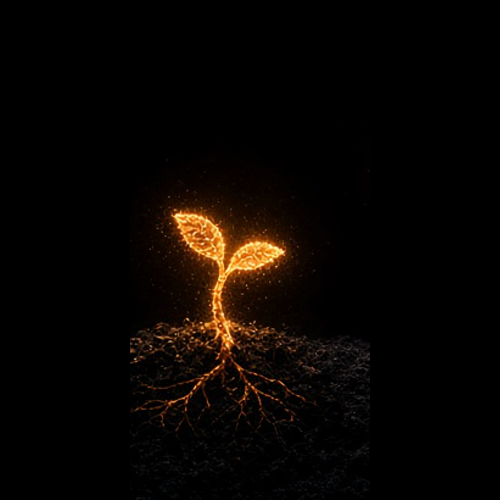
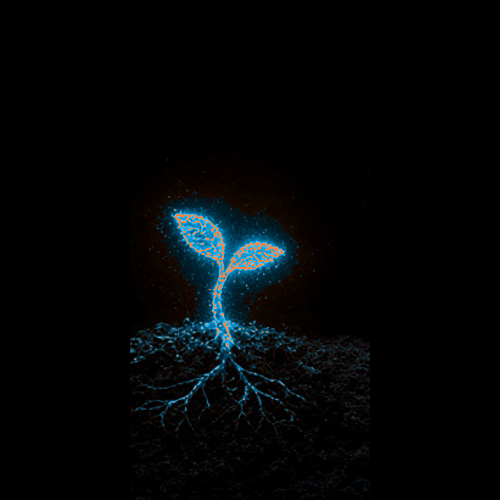
Ch6 pathways color fidelity vs Jose refs
Restore Jose true cyan-blue + orange palette on Ch6 #pathways stages 1/2/4. Kill pink colorize. Crash budget held.

Changed region(s): [[0.24, 0.39, 0.63, 0.84], [0.6, 0.69, 0.69, 0.75], [0.72, 0.69, 0.75, 0.72]]

diff --git a/src/style.css b/src/style.css
@@ -3952,6 +3952,9 @@ a.subject-chip {
   height: 100%;
   object-fit: contain;
   object-position: center bottom;
+  /* Jose PNGs render true — no hue-rotate / tint / blend recolor. */
+  filter: none;
+  mix-blend-mode: normal;
 }
 
 .plant-stage-slot {
@@ -4054,8 +4057,8 @@ a.subject-chip {
 
 .plant-viz--2 .plant-stem { height: 42px; }
 .plant-viz--2 .plant-leaf--l,
-.plant-viz--2 .plant-leaf--r { opacity: 0.9; bottom: 18px; background: #ff7ad9; }
-.plant-viz--2 .plant-bud { bottom: 40px; background: #ff9a7a; color: #ff5c00; }
+.plant-viz--2 .plant-leaf--r { opacity: 0.9; bottom: 18px; background: #3d8bff; }
+.plant-viz--2 .plant-bud { bottom: 40px; background: #ff8a3d; color: #ff5c00; }
 
 .plant-viz--3 .plant-stem { height: 66px; }
 .plant-viz--3 .plant-leaf { opacity: 1; background: #6eb6ff; }
@@ -4085,9 +4088,9 @@ a.subject-chip {
 }
 
 .plant-dot--1 { background: #ff5c00; box-shadow: 0 0 10px #ff5c00; }
-.plant-dot--2 { background: #ff7ad9; box-shadow: 0 0 10px #ff7ad9; }
+.plant-dot--2 { background: #8ec5ff; box-shadow: 0 0 10px #8ec5ff; }
 .plant-dot--3 { background: #3d8bff; box-shadow: 0 0 10px #3d8bff; }
-.plant-dot--4 { background: #8ec5ff; box-shadow: 0 0 10px #8ec5ff; }
+.plant-dot--4 { background: #ff5c00; box-shadow: 0 0 10px #ff5c00; }
 
 .grow-rail--frame {
   margin-top: 18px;
